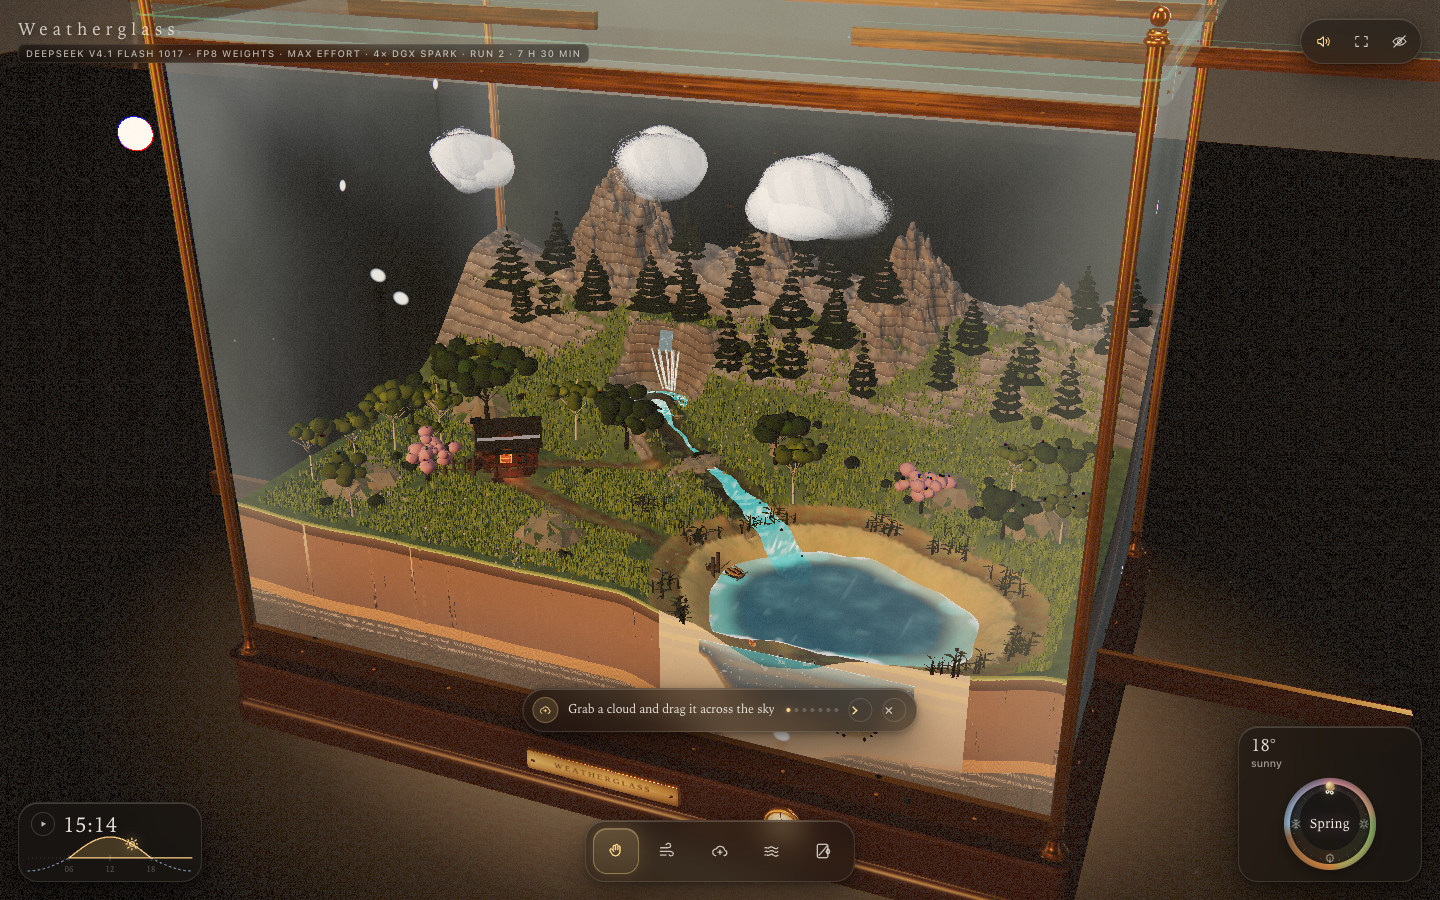
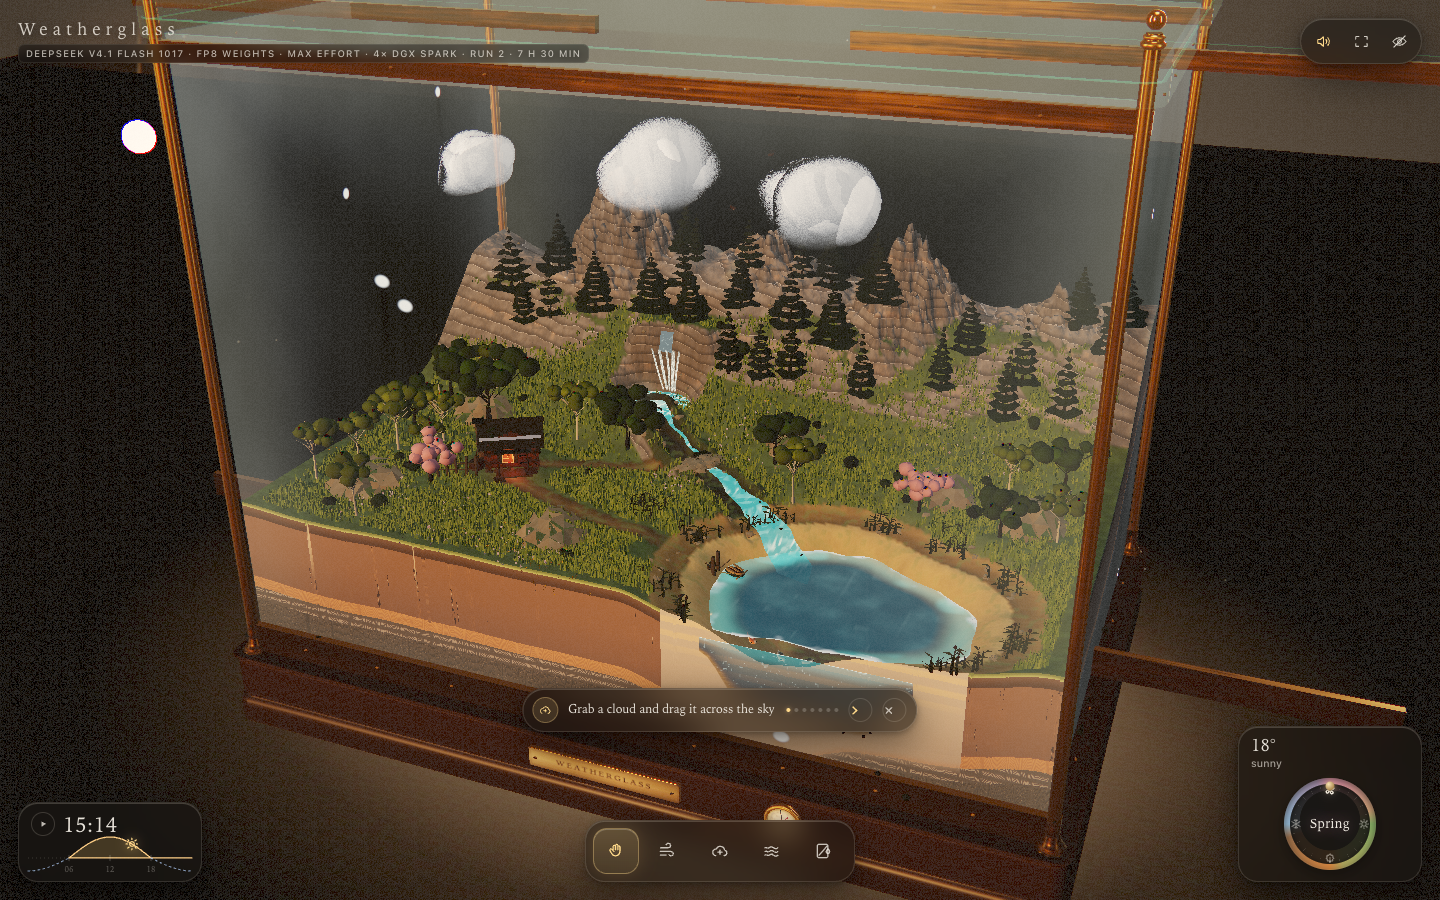
Clamp storm towers/anvils under the case lid; refresh preview

Changed region(s): [[0.0, 0.0, 1.0, 1.0], [0.7812, 0.9644, 1.0, 1.0], [0.9688, 0.0622, 1.0, 0.0933]]

diff --git a/index.html b/index.html
@@ -8136,10 +8136,13 @@ WG.register('clouds', {
       c.u.uOpacity.value = c.opacity;
       c.baseDisc.material.opacity = c.opacity * (.1 + c.water * .26);
       c.tower.visible = c.storm > .08; c.anvil.visible = c.storm > .25;
-      c.tower.scale.set(c.size * .4, c.size * (1.0 + c.storm * .6), c.size * .4);
+      const lidY = 7.2;
+      const baseTop = c.pos.y + c.size * .9;
+      const towerH = Math.max(.14, Math.min(c.size * (1.0 + c.storm * .6), lidY - baseTop - c.size * .2));
+      c.tower.scale.set(c.size * .4, towerH, c.size * .4);
+      c.tower.position.y = c.size * .9 + towerH * .45;
       c.anvil.scale.set(c.size * (1.05 + c.storm * .5), c.size * .13, c.size * (.8 + c.storm * .3));
-      c.anvil.position.y = c.size * (1.7 + c.storm * .8);
-      c.tower.position.y = c.size * (.9 + c.storm * .3);
+      c.anvil.position.y = Math.min(c.size * (1.7 + c.storm * .8), Math.max(c.size * 1.05, lidY - c.pos.y - c.size * .18));
       c.mat.uniforms.uTime.value = t;
       for (let li = 0; li < c.lobes.length; li++) {
         const l = c.lobes[li];

diff --git a/src/10_clouds.js b/src/10_clouds.js
@@ -418,10 +418,13 @@ WG.register('clouds', {
       c.u.uOpacity.value = c.opacity;
       c.baseDisc.material.opacity = c.opacity * (.1 + c.water * .26);
       c.tower.visible = c.storm > .08; c.anvil.visible = c.storm > .25;
-      c.tower.scale.set(c.size * .4, c.size * (1.0 + c.storm * .6), c.size * .4);
+      const lidY = 7.2;
+      const baseTop = c.pos.y + c.size * .9;
+      const towerH = Math.max(.14, Math.min(c.size * (1.0 + c.storm * .6), lidY - baseTop - c.size * .2));
+      c.tower.scale.set(c.size * .4, towerH, c.size * .4);
+      c.tower.position.y = c.size * .9 + towerH * .45;
       c.anvil.scale.set(c.size * (1.05 + c.storm * .5), c.size * .13, c.size * (.8 + c.storm * .3));
-      c.anvil.position.y = c.size * (1.7 + c.storm * .8);
-      c.tower.position.y = c.size * (.9 + c.storm * .3);
+      c.anvil.position.y = Math.min(c.size * (1.7 + c.storm * .8), Math.max(c.size * 1.05, lidY - c.pos.y - c.size * .18));
       c.mat.uniforms.uTime.value = t;
       for (let li = 0; li < c.lobes.length; li++) {
         const l = c.lobes[li];
